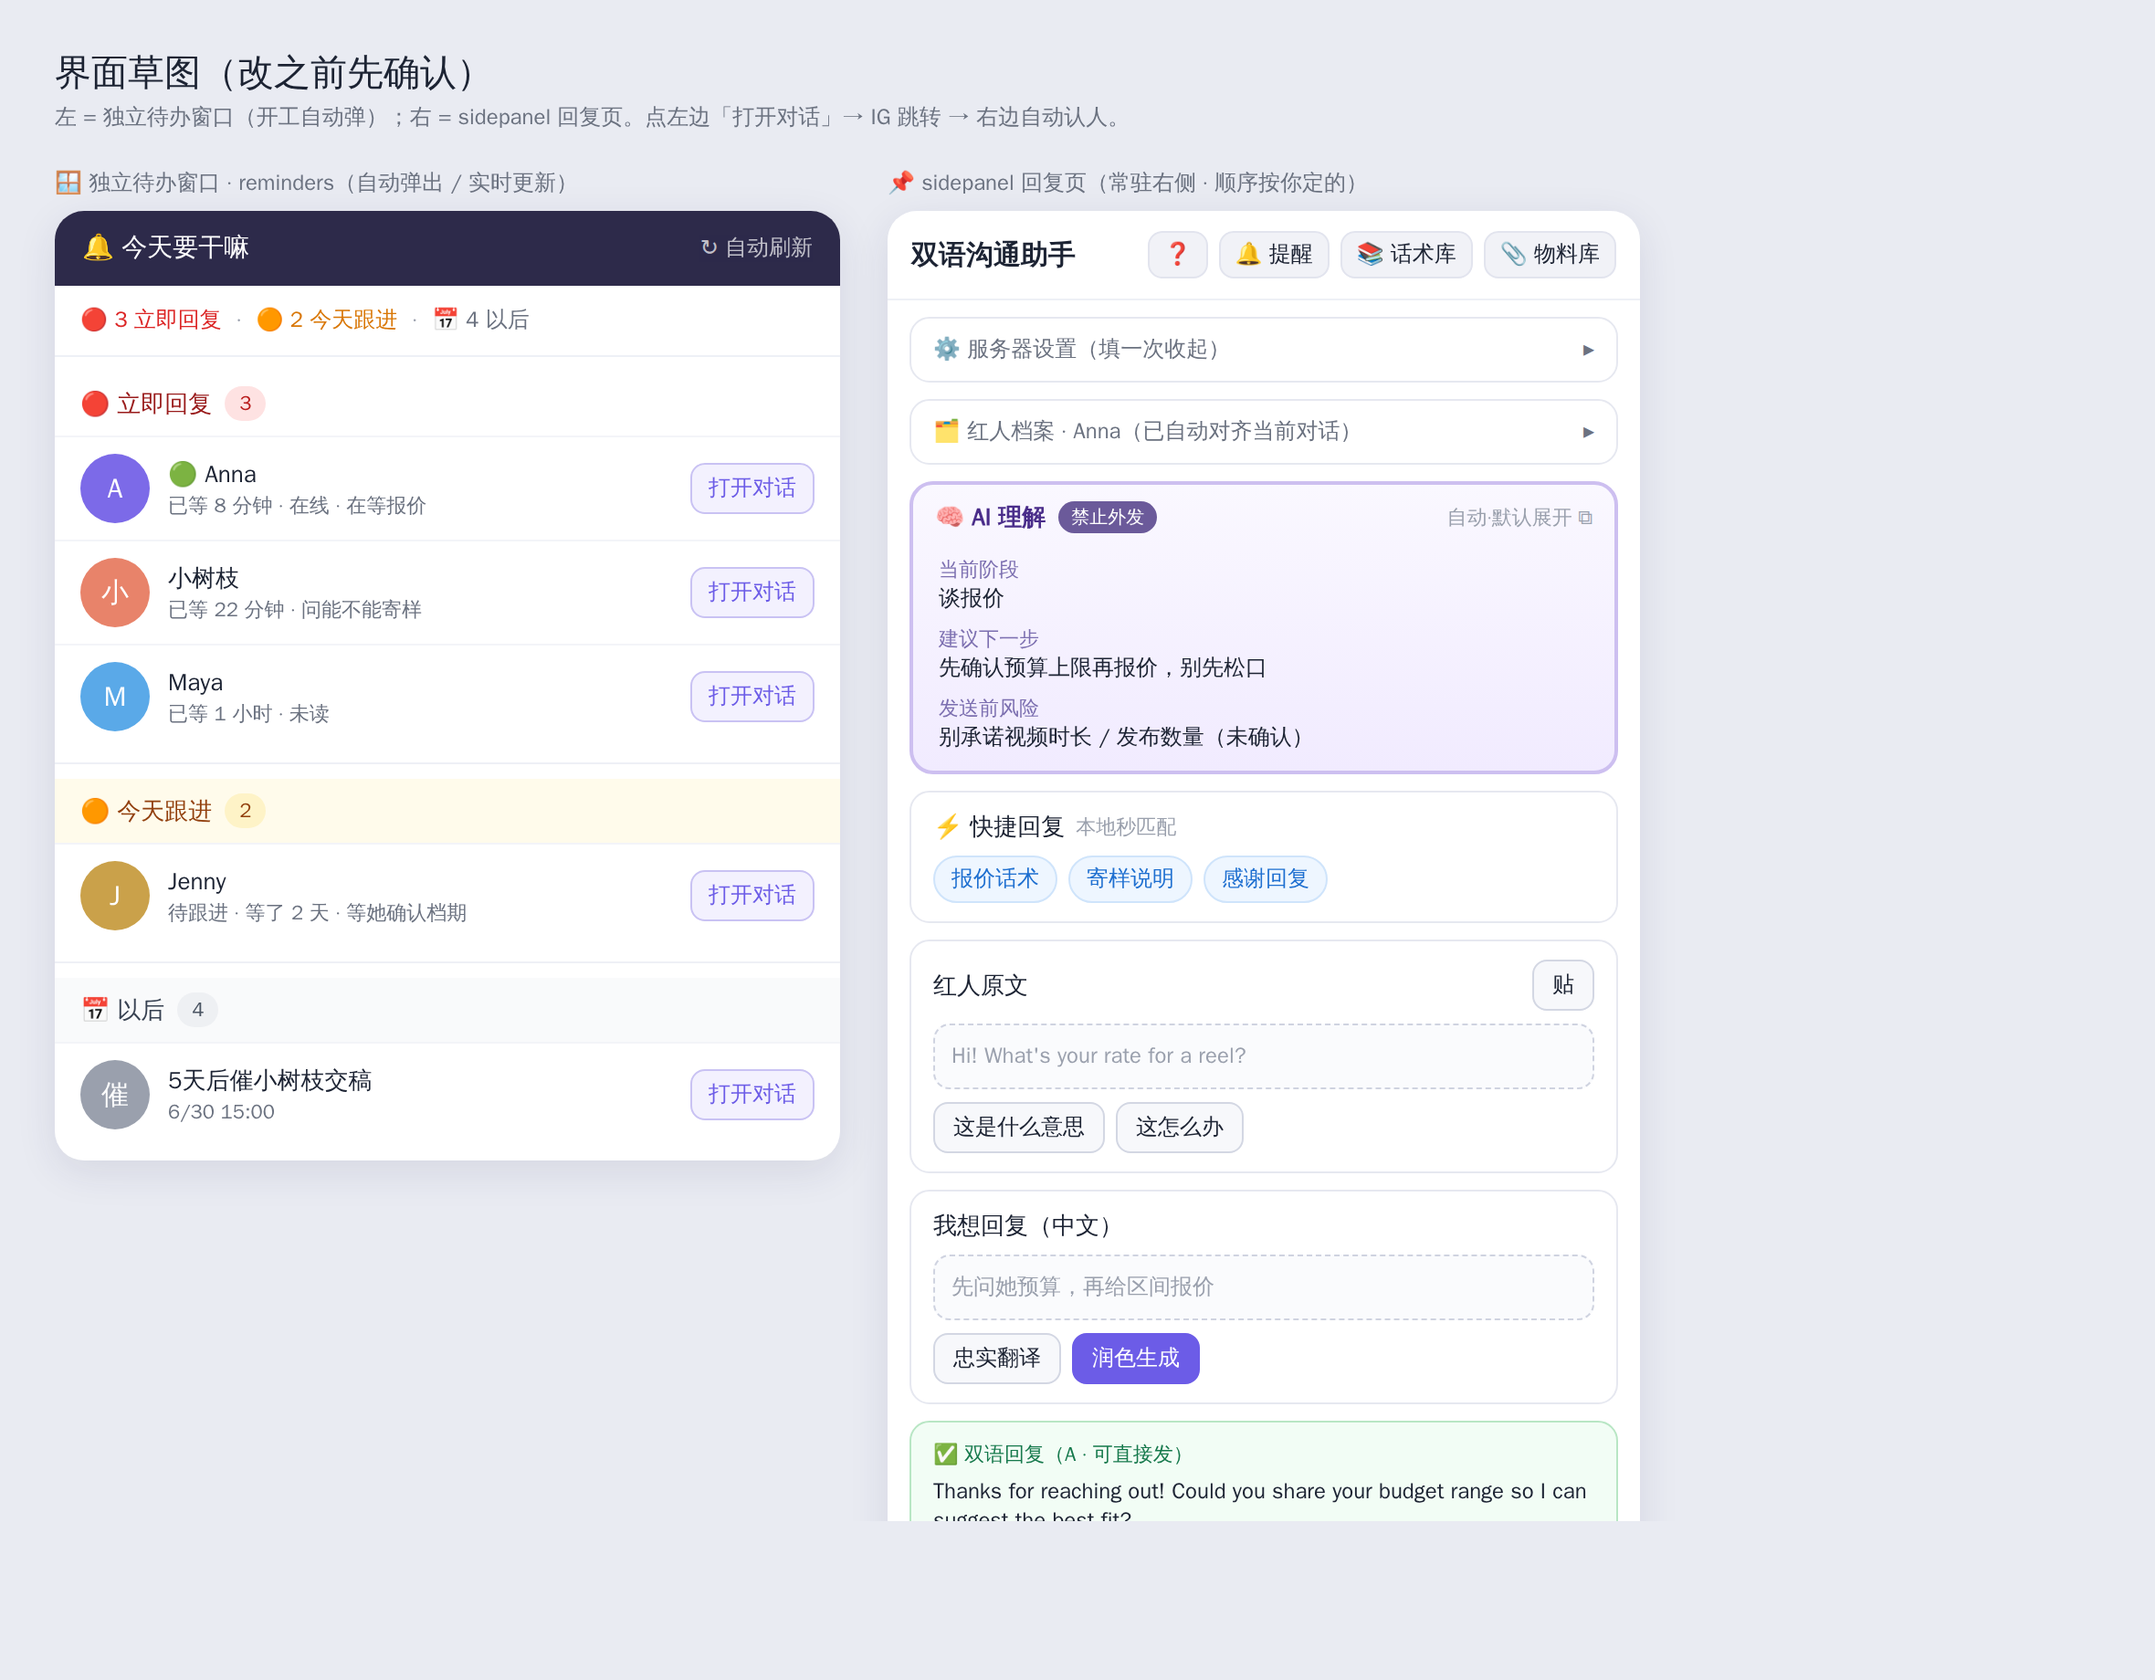
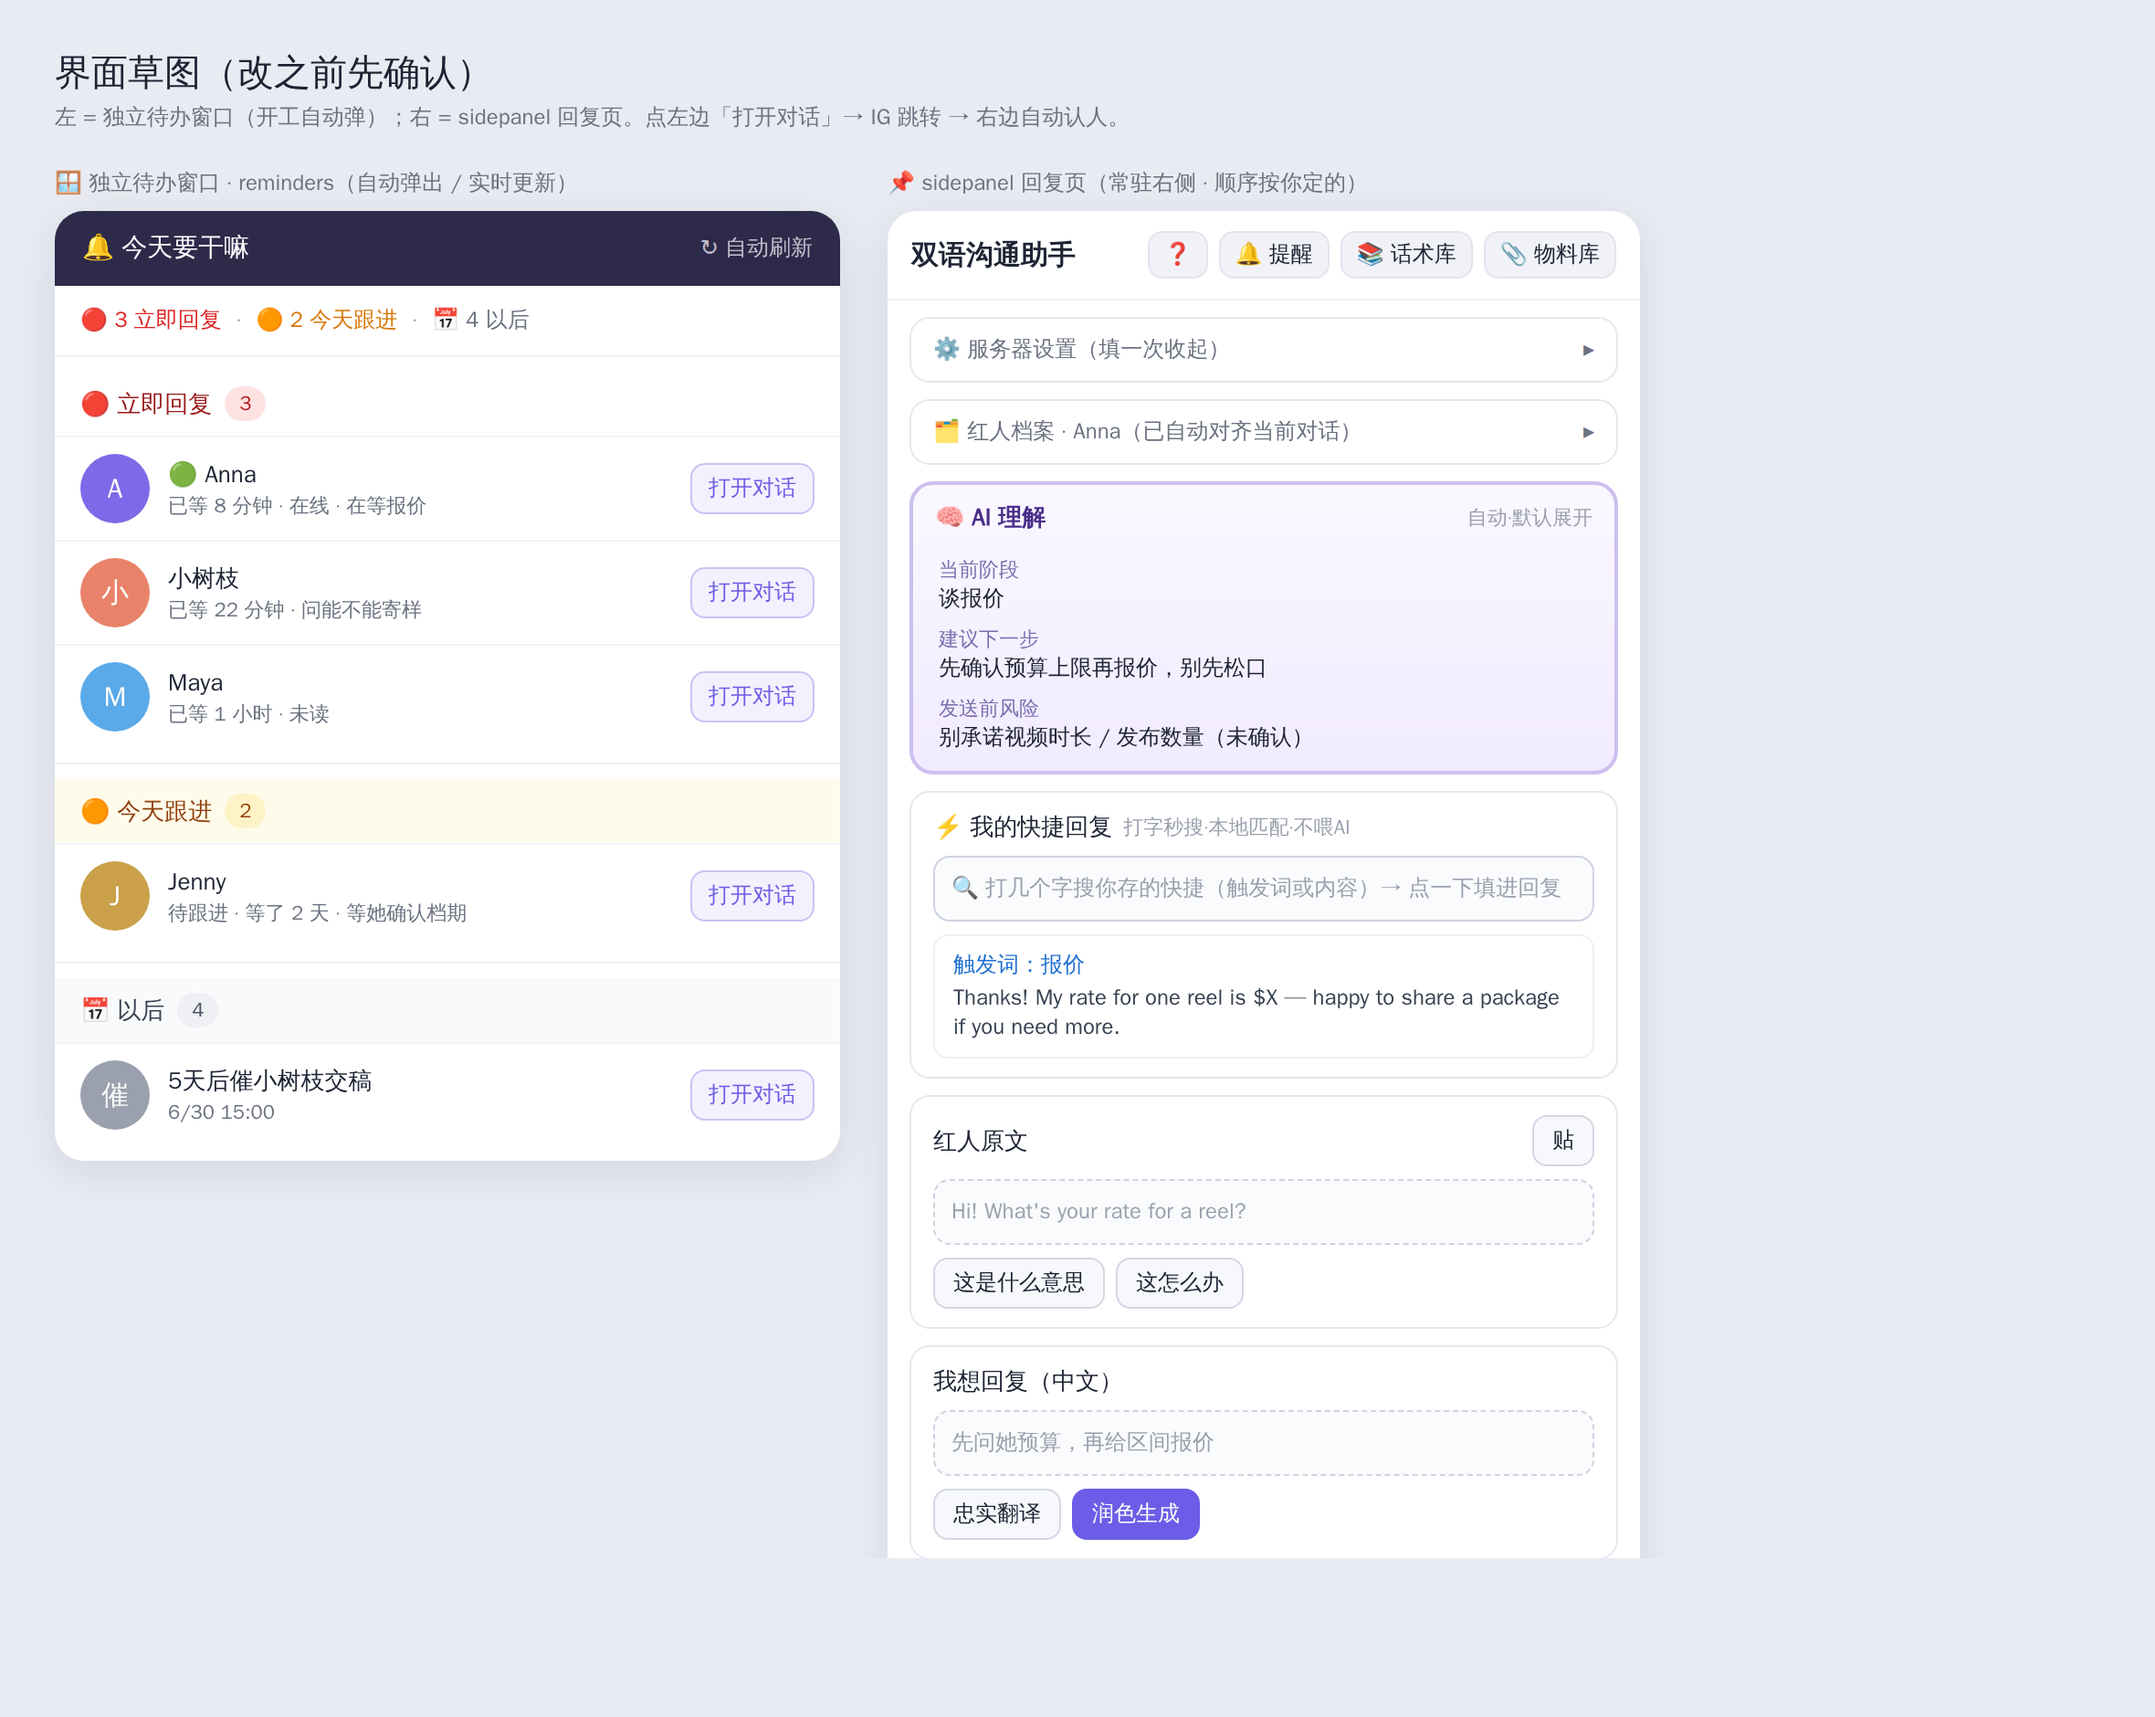
草图修正：快捷回复改成搜索框（不是预设按钮）；去掉AI理解的禁止外发徽标+复制图标
Claude-Session: https://claude.ai/code/session_01LCKLK7ffC9nAssYJRTy36e

diff --git a/docs/界面草图.html b/docs/界面草图.html
@@ -113,7 +113,7 @@
 
         <!-- 2 AI 理解 -->
         <div class="aiu">
-          <div class="aiu-h">🧠 AI 理解 <span class="badge">禁止外发</span> <span class="muted" style="margin-left:auto;font-size:11px;font-weight:400">自动·默认展开 ⧉</span></div>
+          <div class="aiu-h">🧠 AI 理解 <span class="muted" style="margin-left:auto;font-size:11px;font-weight:400">自动·默认展开</span></div>
           <div class="aiu-row"><b>当前阶段</b><br>谈报价</div>
           <div class="aiu-row"><b>建议下一步</b><br>先确认预算上限再报价，别先松口</div>
           <div class="aiu-row" style="padding-bottom:10px;"><b>发送前风险</b><br>别承诺视频时长 / 发布数量（未确认）</div>
@@ -121,8 +121,12 @@
 
         <!-- 3 快捷回复 -->
         <div class="card">
-          <div class="ctitle">⚡ 快捷回复 <span class="muted" style="font-weight:400;font-size:11px">本地秒匹配</span></div>
-          <div class="qr"><span class="qpill">报价话术</span><span class="qpill">寄样说明</span><span class="qpill">感谢回复</span></div>
+          <div class="ctitle">⚡ 我的快捷回复 <span class="muted" style="font-weight:400;font-size:11px">打字秒搜·本地匹配·不喂AI</span></div>
+          <div class="ta" style="border-style:solid;border-color:#cfd3e0;color:#9aa0ad;">🔍 打几个字搜你存的快捷（触发词或内容）→ 点一下填进回复</div>
+          <div style="margin-top:7px;border:1px solid #eef0f6;border-radius:8px;padding:8px 10px;font-size:12px;">
+            <div style="font-weight:700;color:#1e6fd0;">触发词：报价</div>
+            <div style="color:#374151;margin-top:2px;">Thanks! My rate for one reel is $X — happy to share a package if you need more.</div>
+          </div>
         </div>
 
         <!-- 4 红人原文 -->
